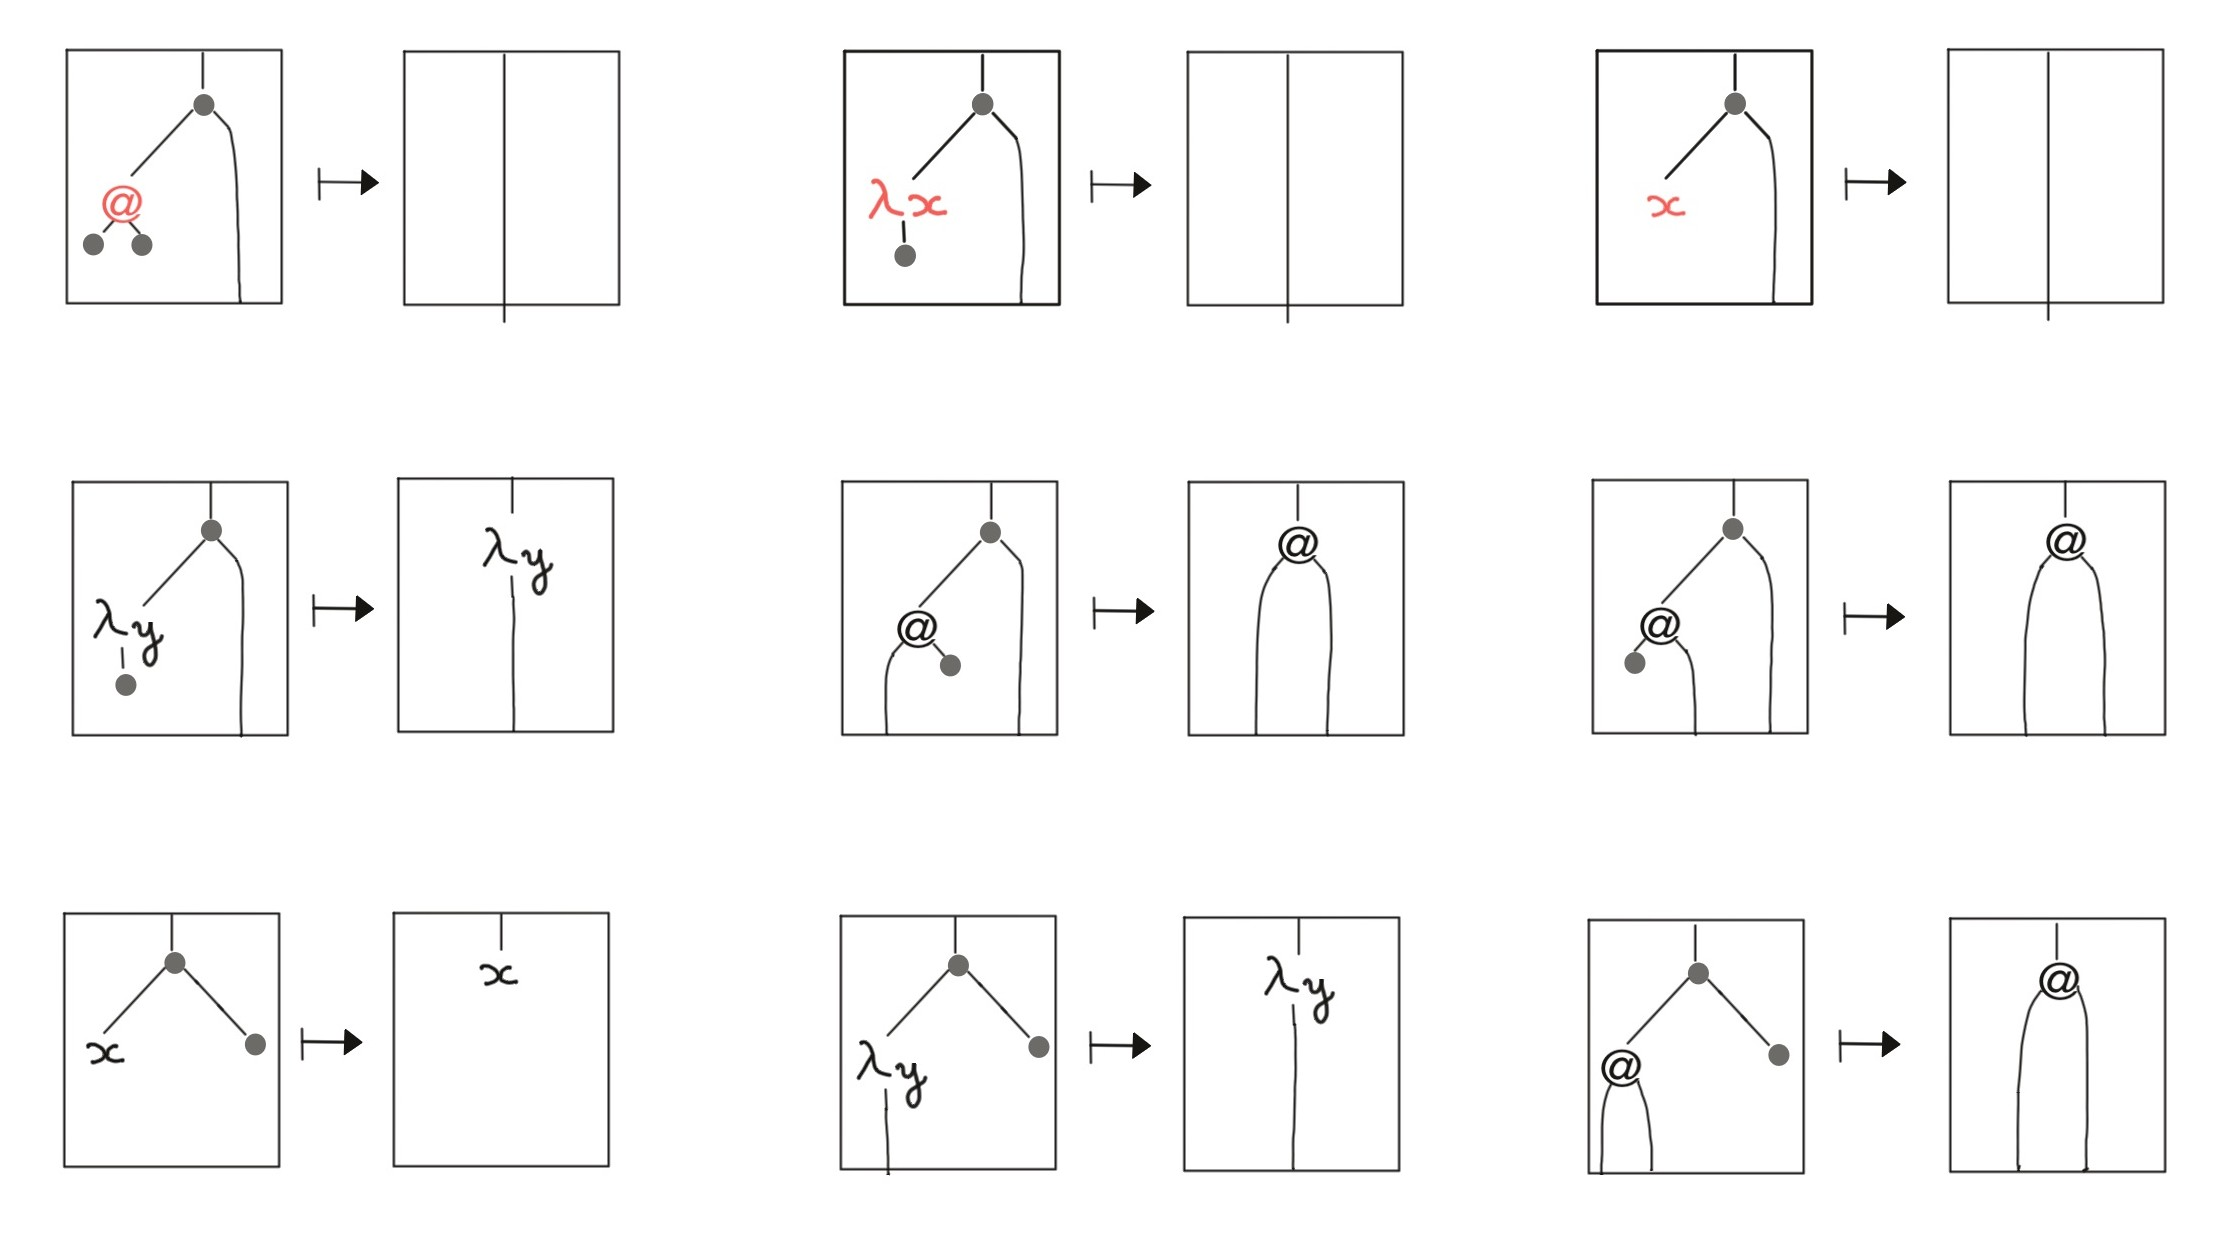
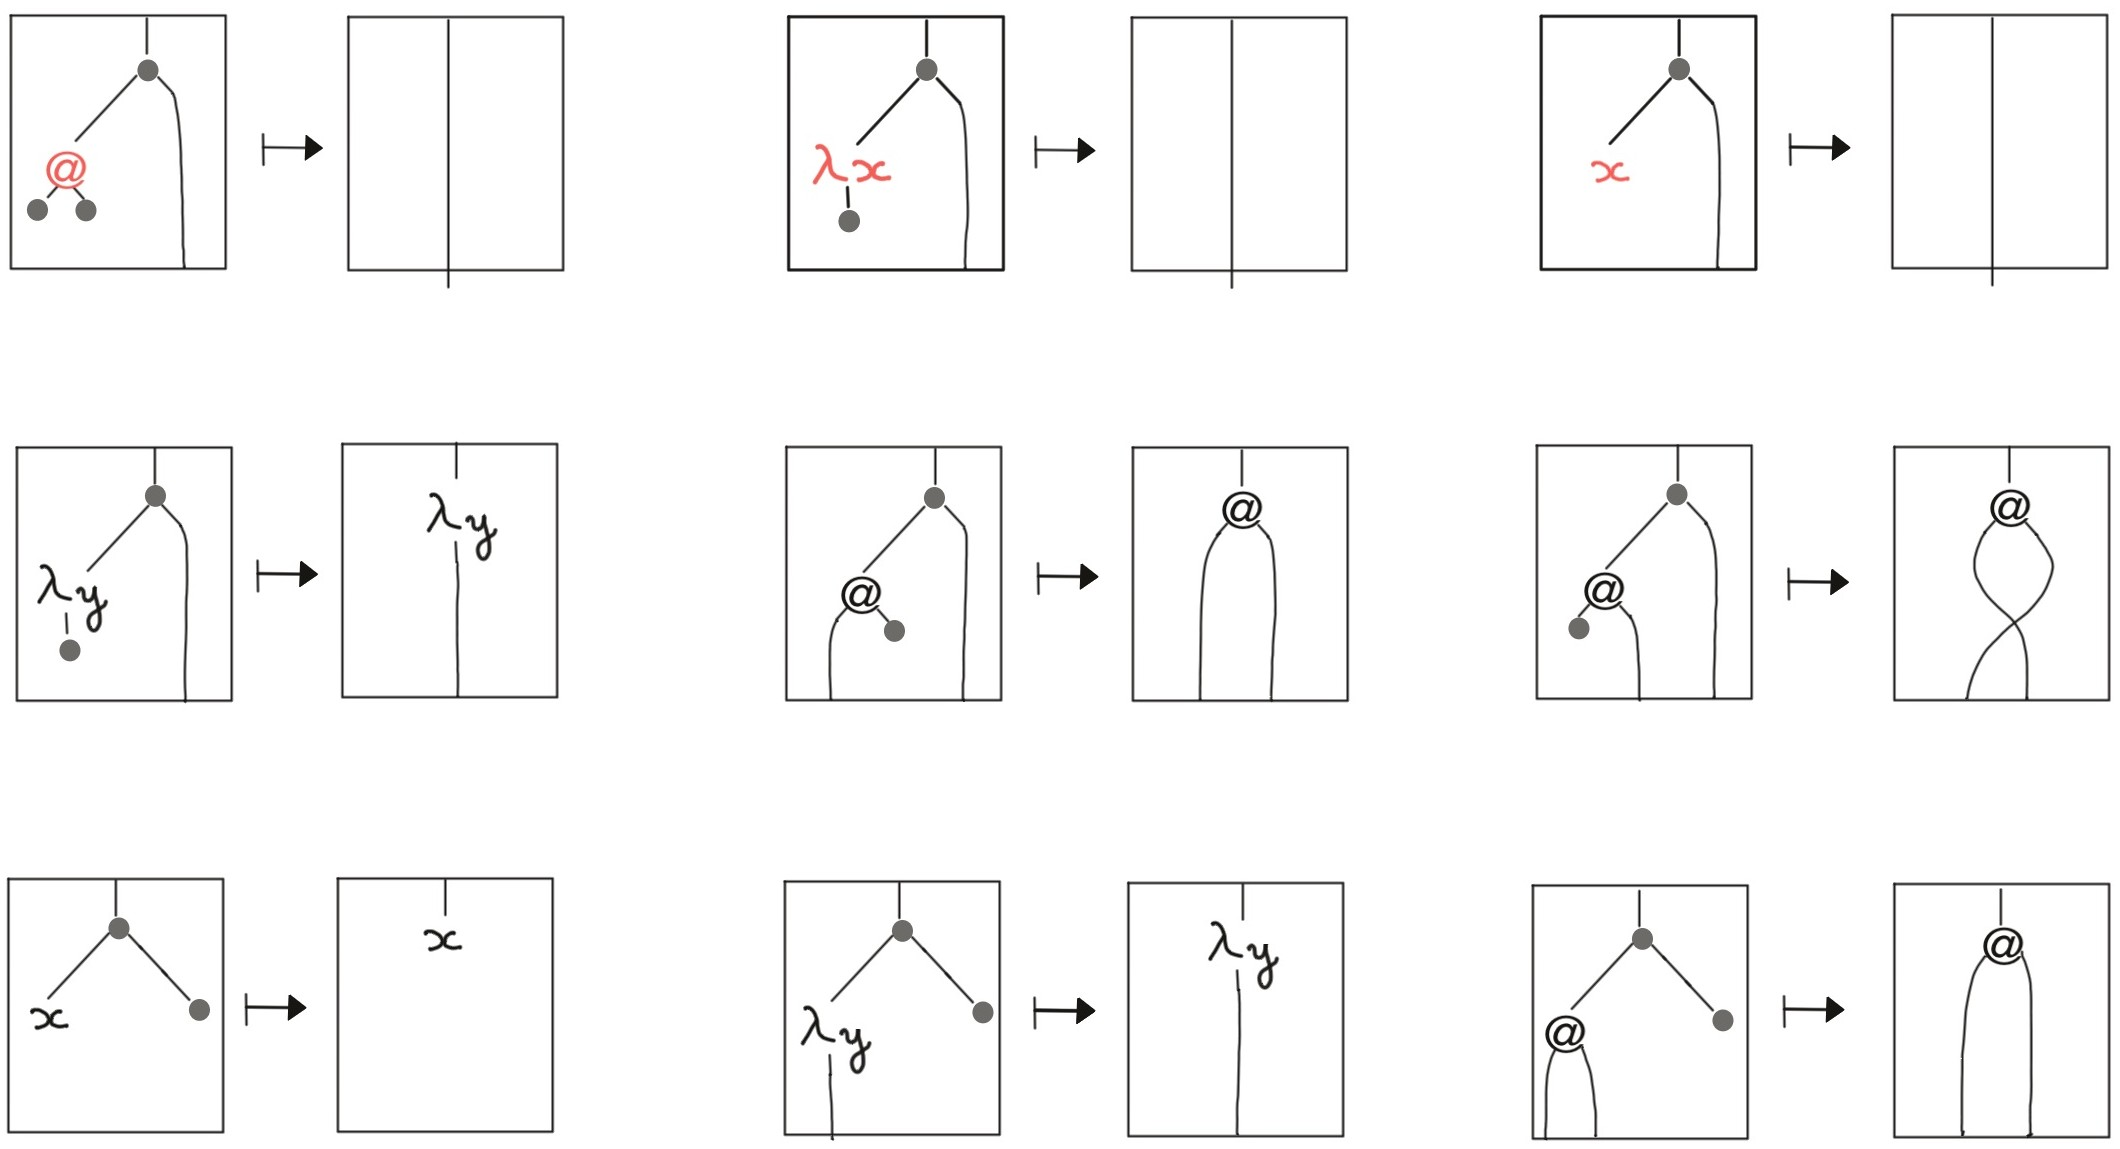
figures

diff --git a/appendix-examples.tex b/appendix-examples.tex
@@ -64,8 +64,8 @@ where $\#$ is a unary symbol, and $\ranked{g}$ is defined on the elements of $\G
 \end{align*}
 In our example, the action of $\ranked{g}$ on the elements of $\rGamma$ looks like this
 \begin{center}
-		\includegraphics[scale=.1]{MyPic3a.jpg}\includegraphics[scale=.1]{MyPic3b.jpg}\includegraphics[scale=.1]{MyPic3c.jpg}
-		\end{center}
+		\includegraphics[scale=.15]{MyPic3.jpg}
+				\end{center}
 Hence, after the application of the homomorphism $\ranked{\mathsf{Hom}_g}$, our initial term becoms
 \begin{center}
 		\includegraphics[scale=.15]{MyPic4.jpg}
